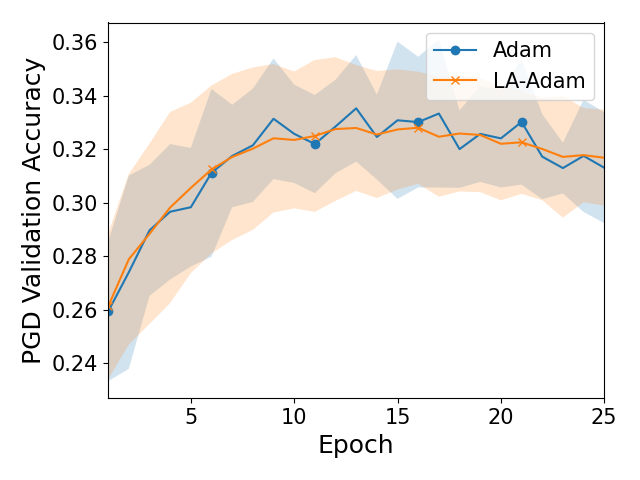
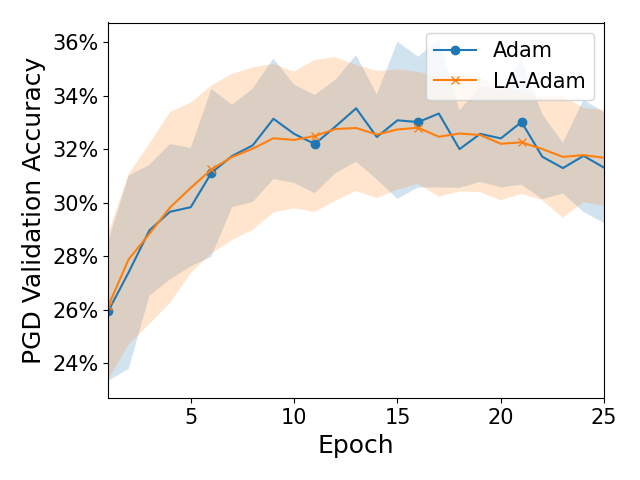
reformart yaxis

diff --git a/Hyperparam_tuning/overall_robustness_eval.py b/Hyperparam_tuning/overall_robustness_eval.py
@@ -4,6 +4,7 @@ from pathlib import Path
 from Utils.visualization_utils import *
 import os
 import matplotlib
+from matplotlib.ticker import FuncFormatter
 
 markers=('o', 'x', '^', '<', '>', '*', 'h', 'H', 'D', 'd', 'P', 'X', '8', 's', 'p')
 
@@ -63,6 +64,7 @@ def plot_total_avg_acc():
         # ax.set_ylim(0, 1.0)
         ax.set_ylabel('PGD Validation Accuracy', fontsize=18)
         ax.set_xlabel('Epoch', fontsize=18)
+        ax.yaxis.set_major_formatter(FuncFormatter(lambda y, _: '{:.0%}'.format(y)))
         font = {'size': 15}
         matplotlib.rc('font', **font)
         matplotlib.pyplot.tight_layout()
